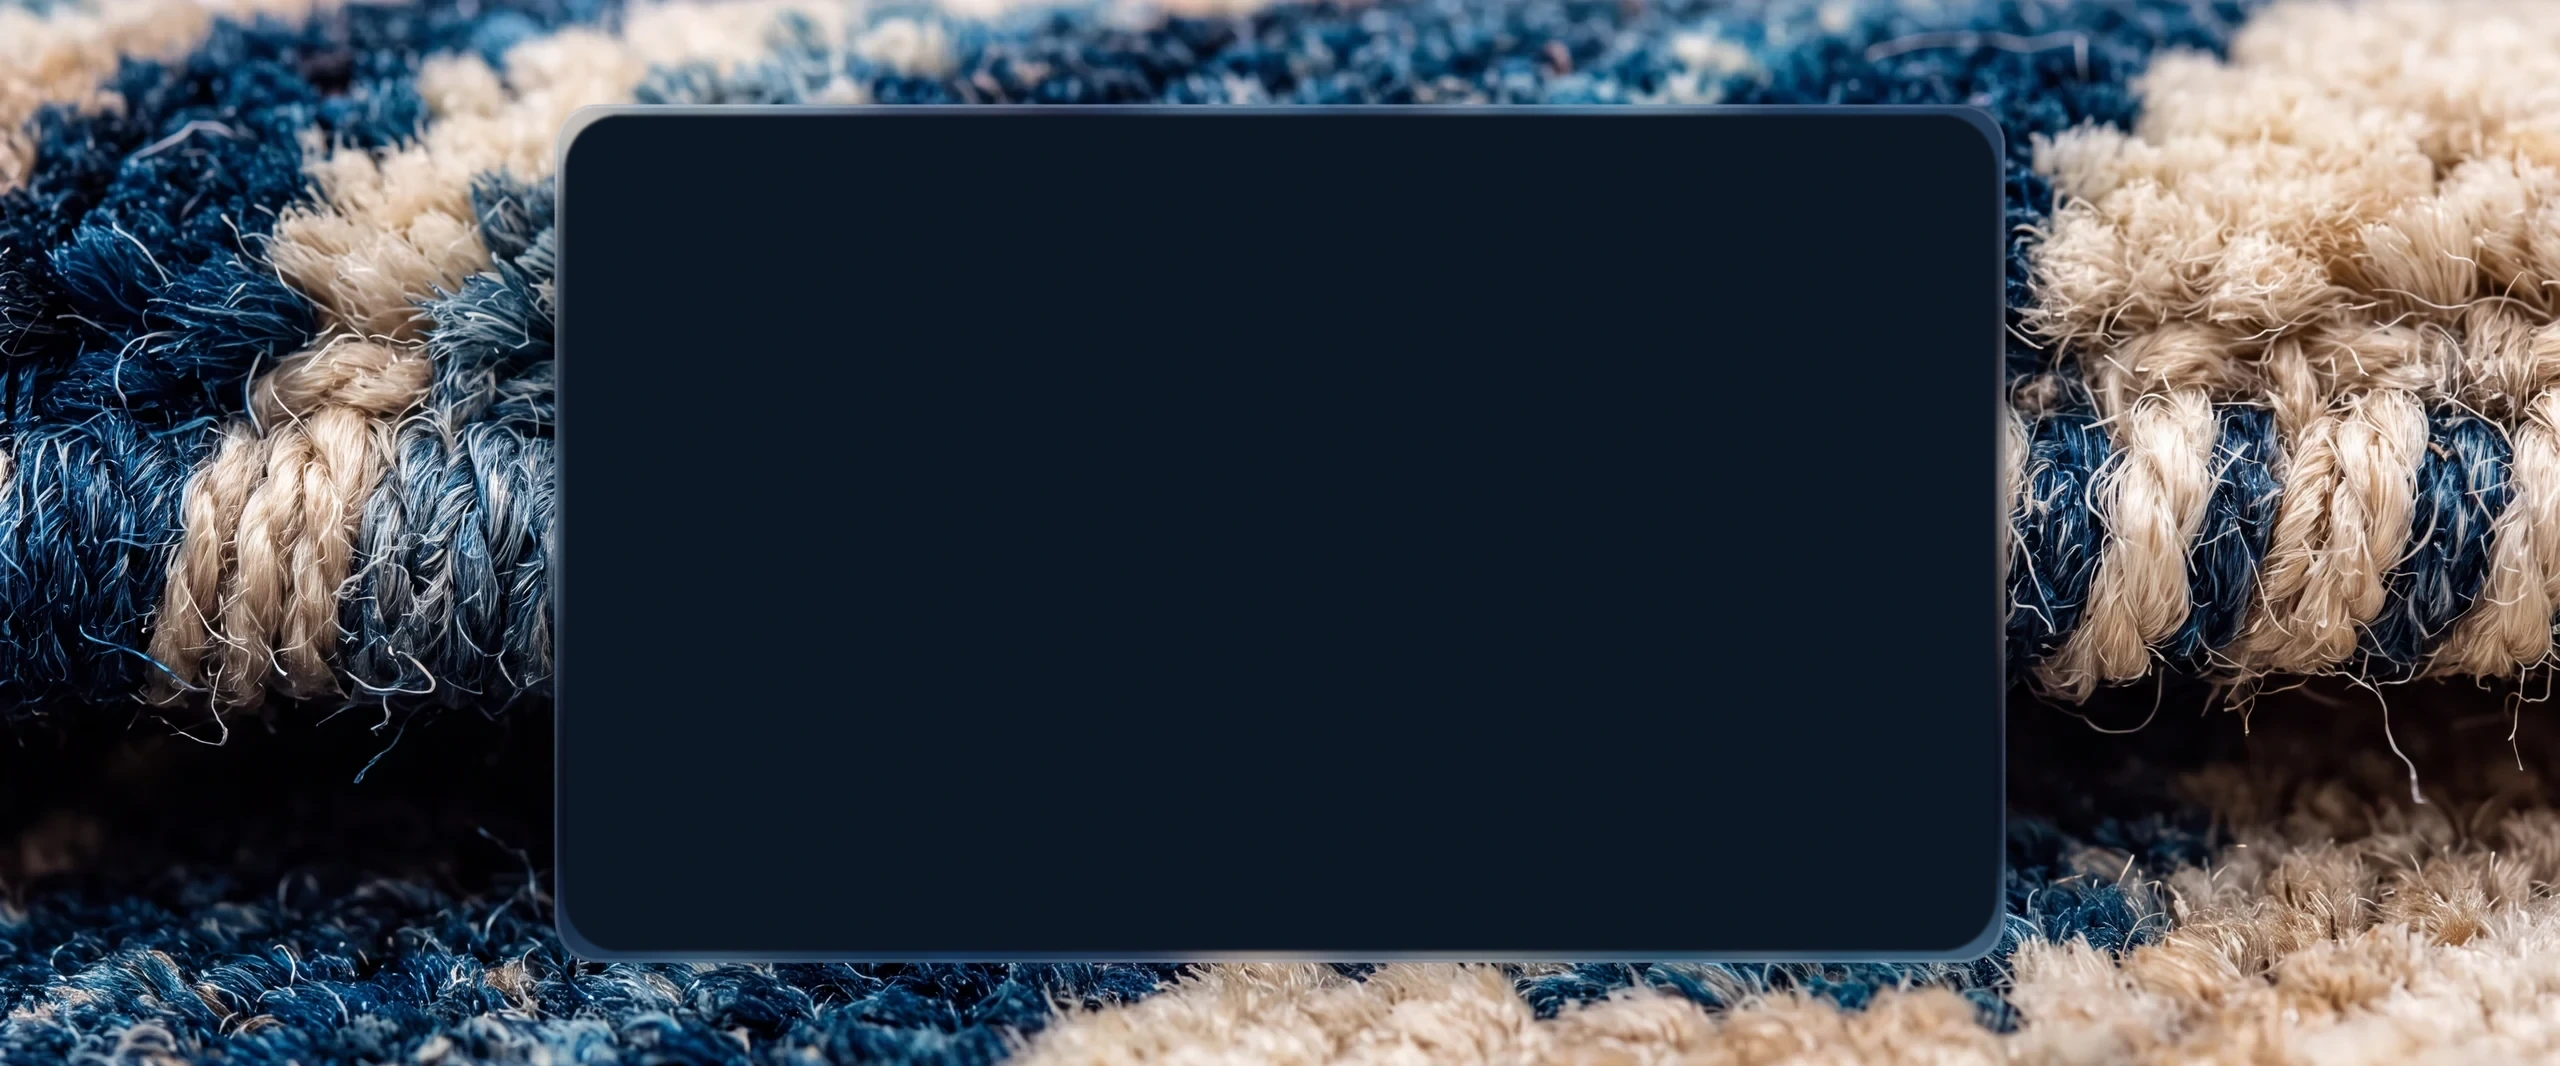
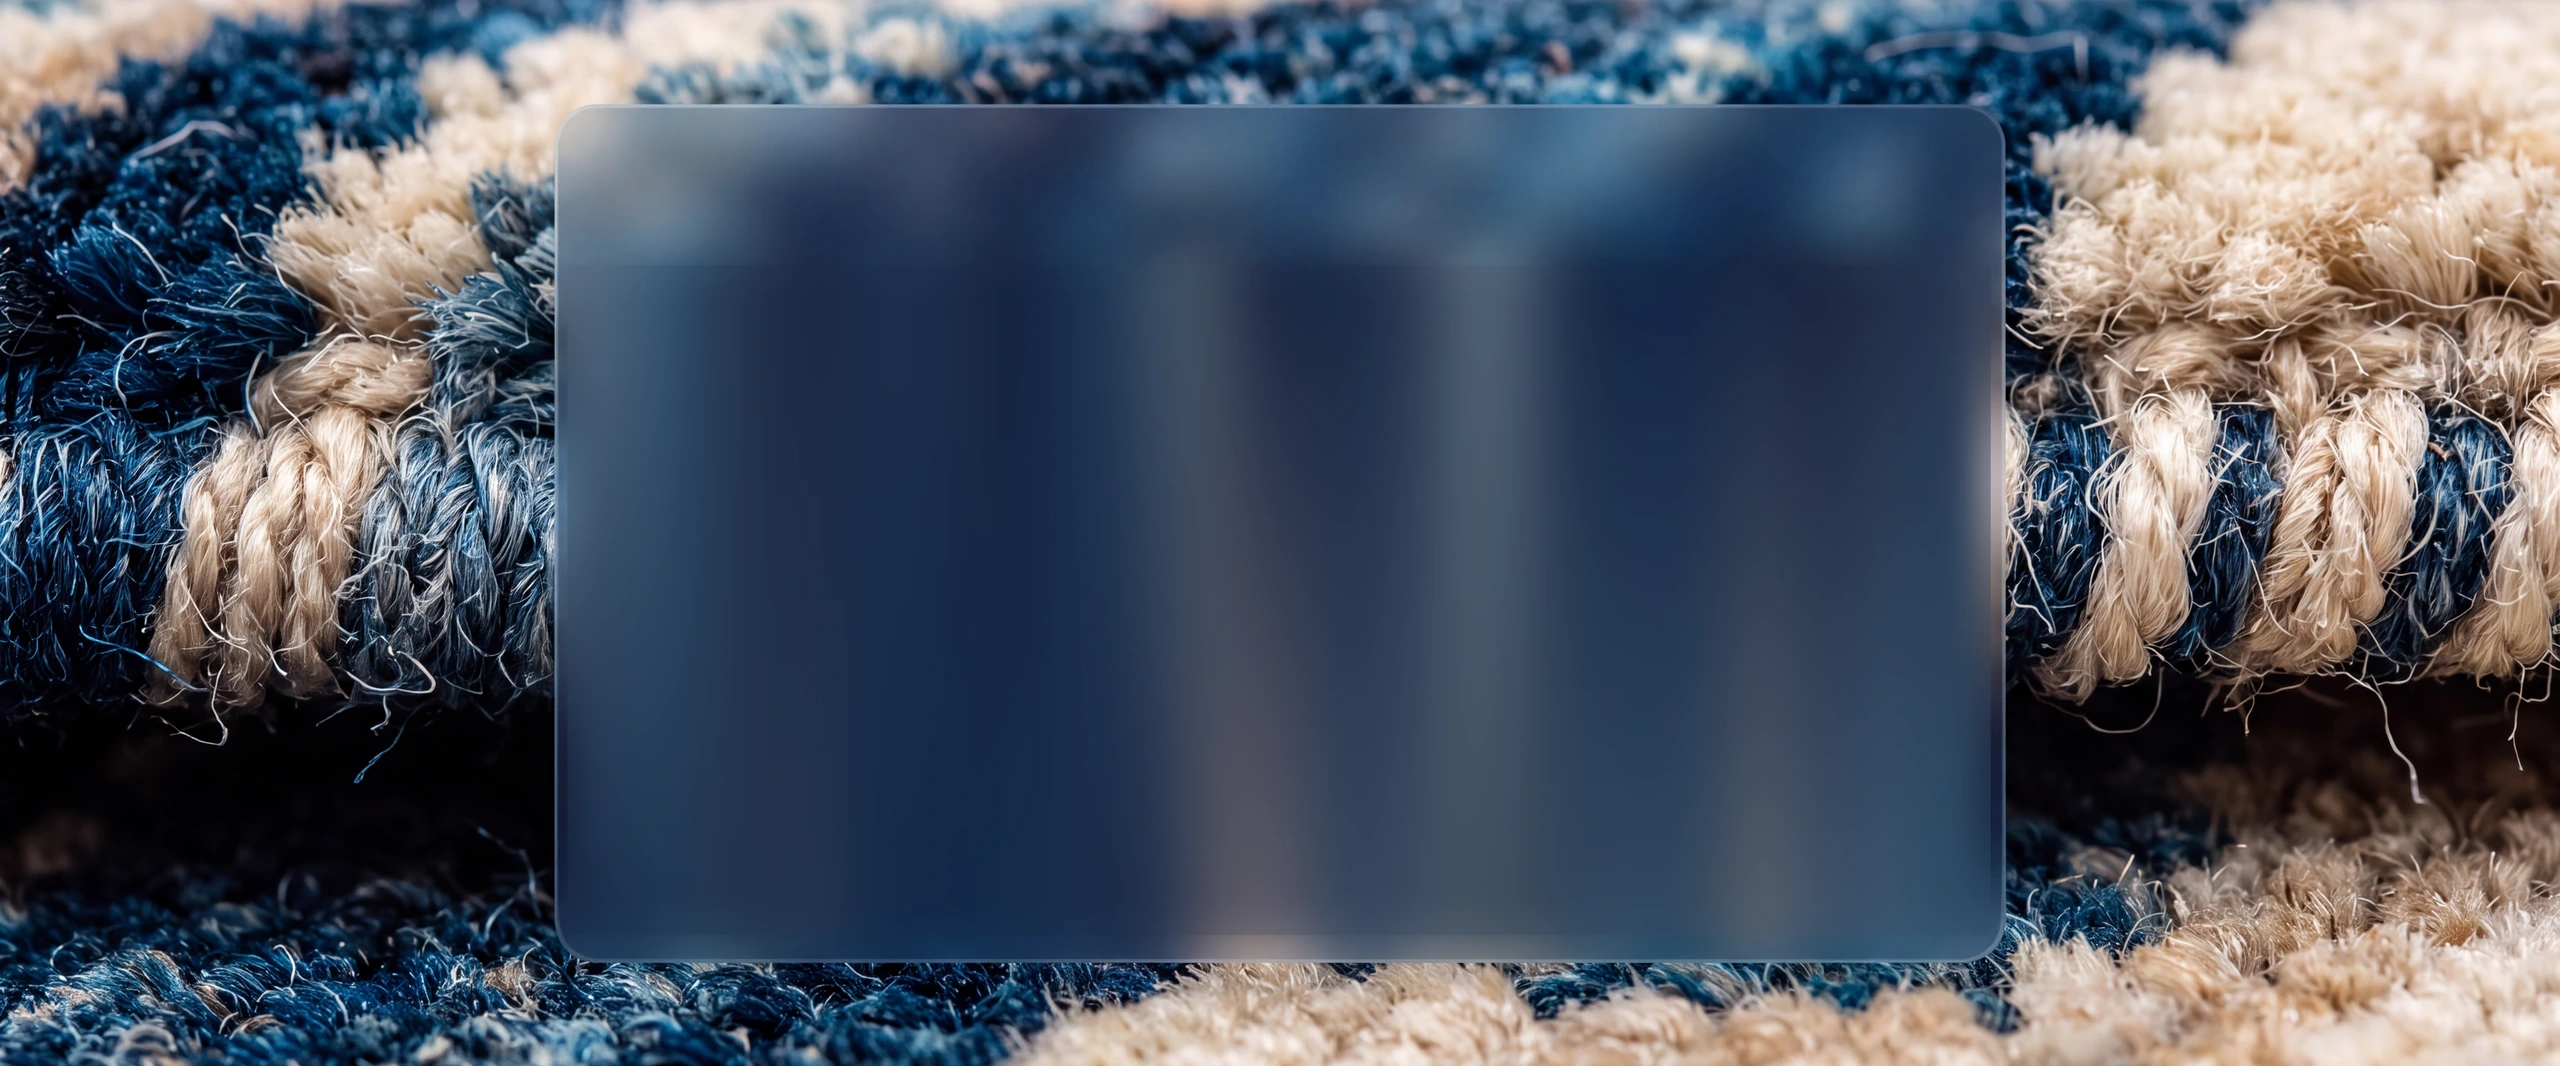
feat(home): make B2B modal fully transparent and activate button glow on hover only

diff --git a/src/components/home/B2BPartnerCtaSection.tsx b/src/components/home/B2BPartnerCtaSection.tsx
@@ -6,103 +6,109 @@ interface B2BPartnerCtaSectionProps {
 }
 
 /**
- * B2BPartnerCtaSection (Концепт 2: Pure Macro Glassmorphism)
- * Реализация на основе 4K референса макросъёмки коврового ворса
- * с парящей стеклянной карточкой (Frosted Glassmorphism)
- * и премиальной кнопкой «Техно-Люкс» (Brushed Steel + Radiant Cyan Trim).
+ * B2BPartnerCtaSection (Концепт 2: Pure Macro Glassmorphism — Максимальная прозрачность)
+ * - 100% аутентичная прозрачность матового стекла 4K-референса (текстура ворса просвечивает насквозь).
+ * - Каркас ковра полностью открыт и занимает максимум кадра.
+ * - Кнопка «Техно-Люкс»: в покое спокойный шлифованный титан, неоновое сияние (#00FBFF) загорается ТОЛЬКО при наведении.
  */
 export default function B2BPartnerCtaSection({ onNavigate }: B2BPartnerCtaSectionProps) {
   return (
-    <section className="py-14 sm:py-20 lg:py-24 bg-white select-none">
+    <section className="py-10 sm:py-16 lg:py-20 bg-white select-none">
       <div className="container-w">
         {/* ── 4K Macro Woven Carpet Background Container ── */}
-        <div className="relative overflow-hidden rounded-3xl sm:rounded-[36px] bg-slate-950 border border-slate-800/80 shadow-[0_30px_70px_rgba(0,14,35,0.45)]">
-          {/* High-res Macro Carpet Background Image */}
+        <div className="relative overflow-hidden rounded-3xl sm:rounded-[36px] bg-slate-950 border border-slate-700/40 shadow-[0_25px_60px_rgba(0,14,35,0.35)] min-h-[440px] sm:min-h-[500px] lg:min-h-[540px] flex items-center justify-center">
+          {/* High-res Macro Carpet Background with Frosted Glass Window */}
           <div 
-            className="absolute inset-0 bg-cover bg-center sm:bg-[center_35%] transform scale-[1.02] transition-transform duration-1000 ease-out"
+            className="absolute inset-0 bg-cover bg-center transform scale-[1.01] transition-transform duration-1000 ease-out"
             style={{
               backgroundImage: "url('/images/b2b_partner_macro_bg.webp')",
             }}
           />
 
-          {/* Ambient Lighting & Vignette */}
+          {/* Ultra-subtle bottom edge shadow for depth without obscuring carpet texture */}
           <div 
             aria-hidden="true" 
-            className="absolute inset-0 bg-gradient-to-t from-slate-950/85 via-slate-950/30 to-slate-950/60 pointer-events-none" 
+            className="absolute inset-x-0 bottom-0 h-24 bg-gradient-to-t from-slate-950/40 to-transparent pointer-events-none" 
           />
 
-          {/* ── Floating Frosted Glassmorphism Card (Variant 2) ── */}
-          <div className="relative z-10 px-6 py-12 sm:px-12 sm:py-16 lg:py-20 max-w-3xl mx-auto flex flex-col items-center text-center">
+          {/* ── Ultra-Transparent Frosted Glassmorphism Card Container ── */}
+          <div className="relative z-10 w-full px-5 py-8 sm:px-12 sm:py-12 lg:py-14 max-w-2xl lg:max-w-3xl mx-auto flex flex-col items-center text-center">
             
-            {/* Ambient Cyan Halo behind the Card */}
-            <div 
-              aria-hidden="true"
-              className="absolute -top-10 left-1/2 -translate-x-1/2 w-72 h-40 bg-[#00FBFF]/15 blur-3xl rounded-full pointer-events-none" 
-            />
-
             {/* Glowing Cyan Tag */}
-            <div className="inline-flex items-center gap-2 px-3.5 py-1 rounded-full bg-[#00FBFF]/10 border border-[#00FBFF]/35 backdrop-blur-md mb-4 shadow-[0_0_15px_rgba(0,251,255,0.25)]">
-              <Sparkles className="w-3.5 h-3.5 text-[#00FBFF] animate-pulse" />
+            <div className="inline-flex items-center gap-2 px-3.5 py-1 rounded-full bg-slate-950/30 border border-[#00FBFF]/40 backdrop-blur-md mb-3 sm:mb-4 shadow-[0_0_12px_rgba(0,251,255,0.2)]">
+              <Sparkles className="w-3.5 h-3.5 text-[#00FBFF]" />
               <span className="font-mono text-[11px] sm:text-xs text-[#5FFFFF] font-semibold uppercase tracking-[0.2em]">
                 B2B Сотрудничество
               </span>
             </div>
 
             {/* Main Luxury Heading */}
-            <h2 className="font-display text-2xl sm:text-4xl lg:text-5xl font-bold text-white tracking-tight leading-[1.15] drop-shadow-[0_2px_12px_rgba(0,0,0,0.8)]">
+            <h2 className="font-display text-2xl sm:text-4xl lg:text-5xl font-bold text-white tracking-tight leading-[1.15] drop-shadow-[0_2px_14px_rgba(0,0,0,0.85)]">
               Детали создают совершенство
             </h2>
 
             {/* Subheading / Value Proposition */}
-            <p className="mt-4 sm:mt-5 text-sm sm:text-base lg:text-lg text-slate-200/90 font-body leading-relaxed max-w-2xl font-light drop-shadow-[0_1px_6px_rgba(0,0,0,0.9)]">
+            <p className="mt-3 sm:mt-4 text-xs sm:text-base lg:text-lg text-slate-100/90 font-body leading-relaxed max-w-xl font-light drop-shadow-[0_1px_8px_rgba(0,0,0,0.9)]">
               Специальные условия для оптовых покупателей: прямые цены ведущих фабрик, персональный B2B-менеджер,
               приоритетная экспресс-отгрузка за 24 часа и резервирование складских остатков.
             </p>
 
-            {/* ── Techno-Luxury Button (Brushed Steel + Radiant Cyan Trim #00FBFF) ── */}
-            <div className="mt-8 sm:mt-10 w-full max-w-[340px] sm:max-w-[420px]">
+            {/* ── Techno-Luxury Button (Illuminates ONLY on Hover) ── */}
+            <div className="mt-6 sm:mt-8 w-full max-w-[320px] sm:max-w-[400px]">
               <button
                 type="button"
                 onClick={() => onNavigate('contacts')}
                 className="group relative w-full block cursor-pointer select-none transition-all duration-300 transform-gpu active:scale-[0.985] hover:scale-[1.015] focus:outline-none"
               >
-                {/* 1. Titanium Outer Chamfer with Cyan Ambient Glow */}
+                {/* 1. Titanium Outer Chamfer — ambient glow illuminates on hover */}
                 <div 
-                  className="relative rounded-[22px] p-[2px] transition-all duration-300 group-hover:shadow-[0_0_35px_rgba(0,251,255,0.5)]"
+                  className="relative rounded-[20px] p-[2px] transition-all duration-300 shadow-[0_6px_20px_rgba(0,0,0,0.6)] group-hover:shadow-[0_8px_30px_rgba(0,0,0,0.7),0_0_30px_rgba(0,251,255,0.55)]"
                   style={{
                     background: 'linear-gradient(180deg, #4A586E 0%, #1E2838 50%, #0C121D 100%)',
-                    boxShadow: '0 8px 24px rgba(0, 0, 0, 0.7), 0 0 16px rgba(0, 251, 255, 0.35)',
                   }}
                 >
-                  {/* 2. Radiant Cyan Trim Groove (#00FBFF) */}
+                  {/* 2. Trim Groove Container */}
                   <div 
-                    className="relative rounded-[20px] p-[1.5px] transition-all duration-300"
-                    style={{
-                      background: 'linear-gradient(180deg, #8FFFFF 0%, #00FBFF 50%, #00B4BE 100%)',
-                      boxShadow: '0 0 10px rgba(0, 251, 255, 0.7), inset 0 0 5px rgba(0, 251, 255, 0.8)',
-                    }}
+                    className="relative rounded-[18px] p-[1.5px] transition-all duration-300 bg-slate-900 overflow-hidden"
                   >
+                    {/* Glowing Cyan Layer (#00FBFF) — STRICTLY HIDDEN BY DEFAULT, GLOWS ONLY ON HOVER */}
+                    <div 
+                      className="absolute inset-0 rounded-[18px] opacity-0 group-hover:opacity-100 transition-opacity duration-300 pointer-events-none"
+                      style={{
+                        background: 'linear-gradient(180deg, #8FFFFF 0%, #00FBFF 50%, #00B4BE 100%)',
+                        boxShadow: '0 0 14px rgba(0, 251, 255, 0.9), inset 0 0 6px rgba(0, 251, 255, 0.9)',
+                      }}
+                    />
+
+                    {/* Subtle Resting Metallic Rim (Visible when not hovering) */}
+                    <div 
+                      className="absolute inset-0 rounded-[18px] opacity-100 group-hover:opacity-0 transition-opacity duration-300 pointer-events-none"
+                      style={{
+                        background: 'linear-gradient(180deg, #5A6980 0%, #2A3648 50%, #182230 100%)',
+                      }}
+                    />
+
                     {/* Micro Chassis Spacer */}
-                    <div className="relative rounded-[18.5px] p-[1px] bg-slate-950">
+                    <div className="relative rounded-[16.5px] p-[1px] bg-slate-950">
                       
                       {/* 3. Tactile Brushed Steel Face with Physical Sheen */}
                       <div 
-                        className="relative w-full h-[58px] sm:h-[64px] rounded-[17.5px] px-5 flex flex-col items-center justify-center overflow-hidden bg-cover bg-center transition-all duration-300"
+                        className="relative w-full h-[52px] sm:h-[60px] rounded-[15.5px] px-5 flex flex-col items-center justify-center overflow-hidden bg-cover bg-center transition-all duration-300"
                         style={{
                           backgroundImage: "url('/images/brushed_steel_plate.webp')",
                           boxShadow: 'inset 0 1px 2px rgba(255,255,255,0.9), inset 0 -1.5px 3px rgba(0,0,0,0.4)',
                         }}
                       >
-                        {/* Interactive Gliding Light Sheen on Hover */}
+                        {/* Interactive Gliding Light Sheen — slides across ONLY on hover */}
                         <div 
                           aria-hidden="true"
-                          className="absolute inset-0 bg-gradient-to-r from-transparent via-white/35 to-transparent -translate-x-full group-hover:translate-x-full transition-transform duration-700 ease-out pointer-events-none" 
+                          className="absolute inset-0 bg-gradient-to-r from-transparent via-white/40 to-transparent -translate-x-full group-hover:translate-x-full transition-transform duration-700 ease-out pointer-events-none" 
                         />
 
-                        {/* 4. Engraved Dark Typography (Styled as Reference Screen) */}
+                        {/* 4. Engraved Dark Typography */}
                         <div className="relative z-10 flex flex-col items-center justify-center leading-tight">
                           <span 
-                            className="font-display text-[13px] sm:text-[15px] font-bold uppercase tracking-[0.16em] text-[#0E1726]"
+                            className="font-display text-[12px] sm:text-[14px] font-bold uppercase tracking-[0.16em] text-[#0E1726] transition-colors duration-200 group-hover:text-[#060D18]"
                             style={{
                               textShadow: '0 1px 0 rgba(255, 255, 255, 0.9), 0 -0.5px 0 rgba(0, 0, 0, 0.25)',
                             }}
@@ -110,13 +116,13 @@ export default function B2BPartnerCtaSection({ onNavigate }: B2BPartnerCtaSectio
                             SYNERGIYA GROUP
                           </span>
                           <span 
-                            className="font-display text-[10px] sm:text-[11px] font-semibold uppercase tracking-[0.24em] text-[#1E2E48] mt-0.5 inline-flex items-center gap-1.5"
+                            className="font-display text-[9px] sm:text-[10.5px] font-semibold uppercase tracking-[0.24em] text-[#1E2E48] mt-0.5 inline-flex items-center gap-1.5 transition-colors duration-200 group-hover:text-[#004A7C]"
                             style={{
                               textShadow: '0 1px 0 rgba(255, 255, 255, 0.75)',
                             }}
                           >
                             CONNECT NOW • СТАТЬ ПАРТНЁРОМ
-                            <ArrowRight className="w-3 h-3 text-[#1E2E48] stroke-[2.5] inline-block transition-transform duration-200 group-hover:translate-x-1" />
+                            <ArrowRight className="w-3 h-3 text-[#1E2E48] group-hover:text-[#004A7C] stroke-[2.5] inline-block transition-transform duration-200 group-hover:translate-x-1" />
                           </span>
                         </div>
 
